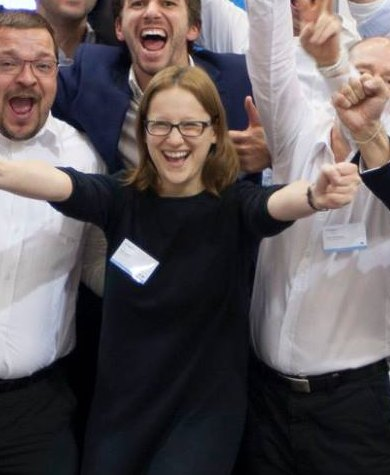
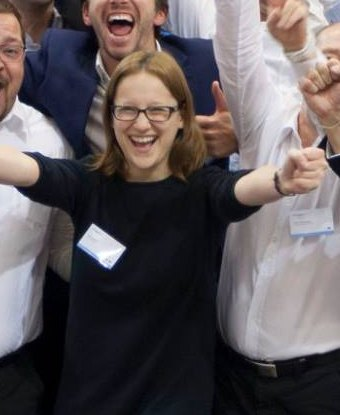
About: Messefoto minimal enger

diff --git a/index.html b/index.html
@@ -31,7 +31,7 @@
 
 <!-- Schriften werden selbst gehostet (fonts/-Ordner + @font-face in style.css) —
      kein Aufruf an Google-Server, daher kein Cookie-Banner dafür nötig. -->
-<link rel="stylesheet" href="style.css?v=14">
+<link rel="stylesheet" href="style.css?v=15">
 
 <!-- Strukturierte Daten für Google & KI-Suchmaschinen -->
 <script type="application/ld+json">

diff --git a/about.html b/about.html
@@ -29,7 +29,7 @@
 
 <!-- Schriften werden selbst gehostet (fonts/-Ordner + @font-face in style.css) —
      kein Aufruf an Google-Server, daher kein Cookie-Banner dafür nötig. -->
-<link rel="stylesheet" href="style.css?v=14">
+<link rel="stylesheet" href="style.css?v=15">
 
 <script type="application/ld+json">
 {

diff --git a/editorial-illustration.html b/editorial-illustration.html
@@ -29,7 +29,7 @@
 
 <!-- Schriften werden selbst gehostet (fonts/-Ordner + @font-face in style.css) —
      kein Aufruf an Google-Server, daher kein Cookie-Banner dafür nötig. -->
-<link rel="stylesheet" href="style.css?v=14">
+<link rel="stylesheet" href="style.css?v=15">
 
 <script type="application/ld+json">
 {

diff --git a/live-fashion-illustration.html b/live-fashion-illustration.html
@@ -29,7 +29,7 @@
 
 <!-- Schriften werden selbst gehostet (fonts/-Ordner + @font-face in style.css) —
      kein Aufruf an Google-Server, daher kein Cookie-Banner dafür nötig. -->
-<link rel="stylesheet" href="style.css?v=14">
+<link rel="stylesheet" href="style.css?v=15">
 
 <script type="application/ld+json">
 {

diff --git a/live-personalization.html b/live-personalization.html
@@ -29,7 +29,7 @@
 
 <!-- Schriften werden selbst gehostet (fonts/-Ordner + @font-face in style.css) —
      kein Aufruf an Google-Server, daher kein Cookie-Banner dafür nötig. -->
-<link rel="stylesheet" href="style.css?v=14">
+<link rel="stylesheet" href="style.css?v=15">
 
 <script type="application/ld+json">
 {

diff --git a/series-fashion-sketches.html b/series-fashion-sketches.html
@@ -29,7 +29,7 @@
 
 <!-- Schriften werden selbst gehostet (fonts/-Ordner + @font-face in style.css) —
      kein Aufruf an Google-Server, daher kein Cookie-Banner dafür nötig. -->
-<link rel="stylesheet" href="style.css?v=14">
+<link rel="stylesheet" href="style.css?v=15">
 
 <script type="application/ld+json">
 {

diff --git a/series-illustrated-wedding-invitation.html b/series-illustrated-wedding-invitation.html
@@ -29,7 +29,7 @@
 
 <!-- Schriften werden selbst gehostet (fonts/-Ordner + @font-face in style.css) —
      kein Aufruf an Google-Server, daher kein Cookie-Banner dafür nötig. -->
-<link rel="stylesheet" href="style.css?v=14">
+<link rel="stylesheet" href="style.css?v=15">
 
 <script type="application/ld+json">
 {

diff --git a/series-private-commission.html b/series-private-commission.html
@@ -29,7 +29,7 @@
 
 <!-- Schriften werden selbst gehostet (fonts/-Ordner + @font-face in style.css) —
      kein Aufruf an Google-Server, daher kein Cookie-Banner dafür nötig. -->
-<link rel="stylesheet" href="style.css?v=14">
+<link rel="stylesheet" href="style.css?v=15">
 
 <script type="application/ld+json">
 {

diff --git a/datenschutz.html b/datenschutz.html
@@ -18,7 +18,7 @@
 
 <!-- Schriften werden selbst gehostet (fonts/-Ordner + @font-face in style.css) —
      kein Aufruf an Google-Server, daher kein Cookie-Banner dafür nötig. -->
-<link rel="stylesheet" href="style.css?v=14">
+<link rel="stylesheet" href="style.css?v=15">
 </head>
 <body>
 

diff --git a/impressum.html b/impressum.html
@@ -18,7 +18,7 @@
 
 <!-- Schriften werden selbst gehostet (fonts/-Ordner + @font-face in style.css) —
      kein Aufruf an Google-Server, daher kein Cookie-Banner dafür nötig. -->
-<link rel="stylesheet" href="style.css?v=14">
+<link rel="stylesheet" href="style.css?v=15">
 </head>
 <body>
 
